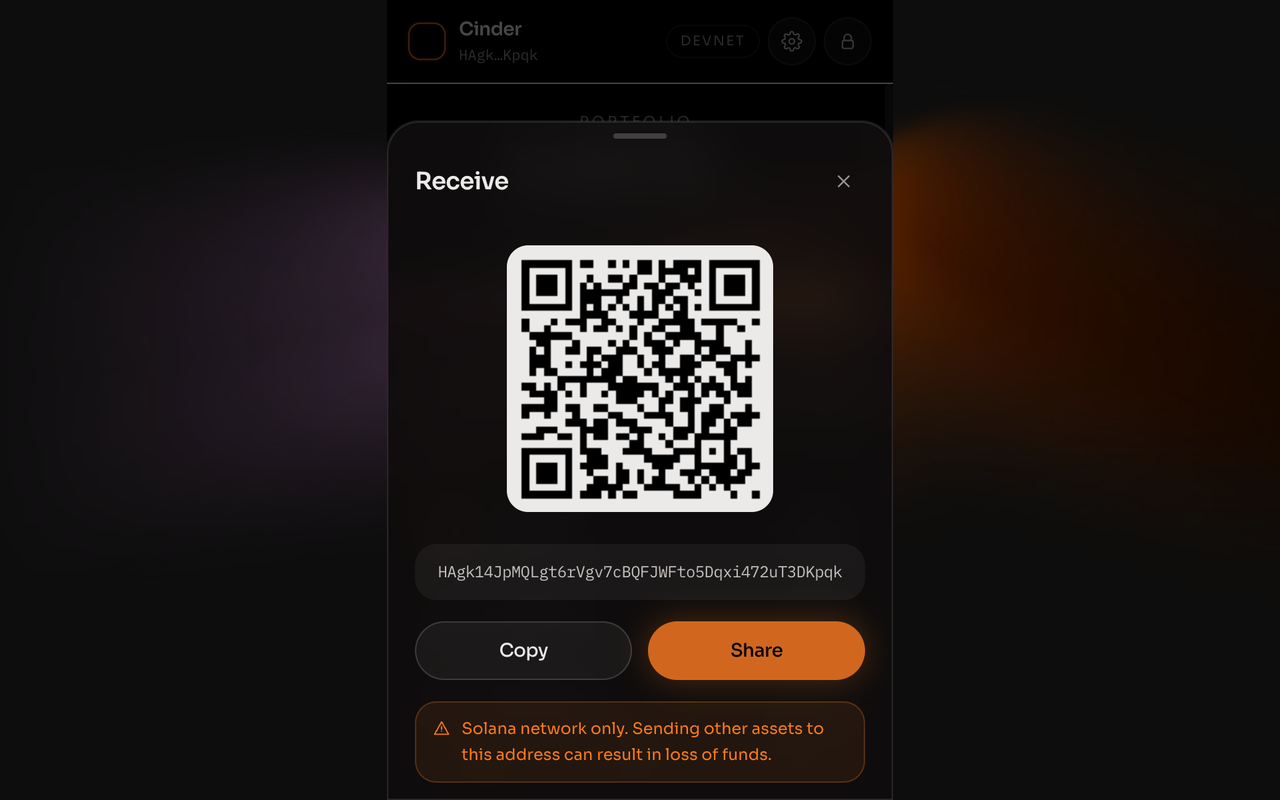
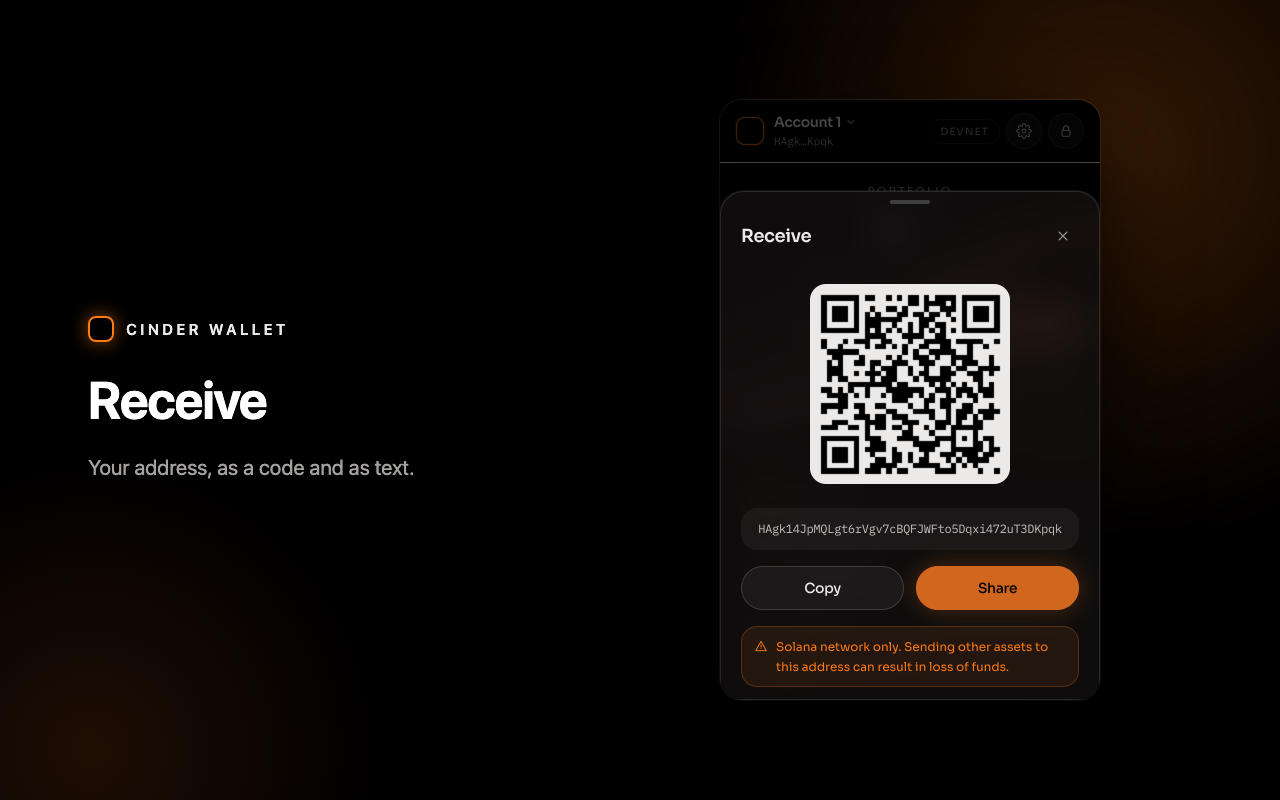
Retake the store screenshots from the real extension
The old set was the devnet unpacked build showing a Devnet pill and unnamed
tokens, which read as a different product from the Mainnet listing text.

Two scripts replace the by-hand process: capture-screenshots.mjs drives the
real extension and writes the raw popup captures, compose-store-images.mjs
lays them out at 1280x800. Nothing is staged and nothing is broadcast.

The five listing shots now lead with the simulated balance change and the
plain-language consent screen, the two things that distinguish this wallet.
Shots 1 and 4 are Mainnet, where the fixture holds real SOL and prices
resolve; 2, 3 and 5 are Devnet, because the fixture cannot pay a Mainnet fee.
listing.md explains that rather than leaving a reviewer to wonder.

diff --git a/docs/store/listing.md b/docs/store/listing.md
@@ -38,19 +38,24 @@ Requires Chrome 111 or later (the Wallet Standard provider is a MAIN-world conte
 
 ## Screenshots
 
-Upload from `docs/store/screenshots/` (real popup, 1280×800, full bleed). Store allows 5:
+Upload from `docs/store/screenshots/` (composed from real popup captures at 1280×800). The store allows five:
 
-1. `01-unlock-1280x800.png`
-2. `02-home-1280x800.png`
-3. `03-nfts-1280x800.png`
-4. `04-activity-1280x800.png`
-5. `05-approve-1280x800.png`
+1. `01-home-1280x800.png` — balance and prices, captured on Mainnet
+2. `02-approve-1280x800.png` — the simulated balance change before signing
+3. `03-connect-1280x800.png` — what a site can and cannot do, in plain language
+4. `04-send-1280x800.png` — a network-quoted fee and the full address
+5. `05-tokens-1280x800.png` — tokens named from chain metadata
 
 Also required: `promo-small-440x280.png`. Optional: `promo-marquee-1400x560.png`. Icon: `public/icons/icon-128.png`.
 
-Spares if you want to swap one in: `extra-receive-1280x800.png`, `extra-send-review-1280x800.png`. `raw/` is local working crops and is gitignored.
+Spare, not part of the five: `extra-activity`, `extra-receive`, `extra-settings`.
 
-**These shots are still the devnet unpacked build, not `just store`.** They show the Devnet pill and a devnet balance, which reads as a different product from the Mainnet listing text above. Retaking them is SHIP-0 item 8 and needs a mainnet profile with a Helius key in Settings, holding at least one named token and one NFT — an agent has no mainnet-funded account. Replace 01–05 and the promo tiles before submitting.
+**How they were made and why two clusters appear.** `node scripts/capture-screenshots.mjs` drives the real
+extension and writes `raw/`; `node scripts/compose-store-images.mjs` lays those out. Shots 1 and 4 are Mainnet,
+where the fixture holds real SOL and prices resolve. Shots 2, 3 and 5 are Devnet, because the fixture address
+cannot pay a Mainnet fee — it was assigned away from the system program by someone using the public test
+mnemonic (see `docs/test-wallet.md`), so a Mainnet simulation correctly fails. Both clusters are supported and
+the listing text says so; nothing here is staged or mocked.
 
 ## Privacy practices (dashboard)
 

diff --git a/README.md b/README.md
@@ -7,12 +7,12 @@ Self-custodial Solana wallet for Chrome (Manifest V3). The encrypted keyring liv
 This is a portfolio implementation. It does not impersonate Phantom. It has not been audited. Do not put mainnet funds on it that you cannot lose.
 
 <p align="center">
-  <img src="docs/store/screenshots/02-home-1280x800.png" width="72%" alt="Cinder Wallet home — portfolio and assets" />
+  <img src="docs/store/screenshots/01-home-1280x800.png" width="72%" alt="Cinder Wallet home — portfolio and assets" />
 </p>
 <p align="center">
-  <img src="docs/store/screenshots/01-unlock-1280x800.png" width="32%" alt="Unlock" />
-  <img src="docs/store/screenshots/03-nfts-1280x800.png" width="32%" alt="NFTs" />
-  <img src="docs/store/screenshots/04-activity-1280x800.png" width="32%" alt="Activity" />
+  <img src="docs/store/screenshots/02-approve-1280x800.png" width="32%" alt="Approval with a simulated balance change" />
+  <img src="docs/store/screenshots/03-connect-1280x800.png" width="32%" alt="Connect consent screen" />
+  <img src="docs/store/screenshots/04-send-1280x800.png" width="32%" alt="Send review with a network-quoted fee" />
 </p>
 
 ## What you get, with and without an RPC key

diff --git a/docs/test-wallet.md b/docs/test-wallet.md
@@ -39,3 +39,13 @@ funds skip with the balance and the shortfall, everything else runs. See `e2e/de
 ## Cost of a test run
 
 A full `just e2e` spends 10000 lamports from the fixture (two fee-only self-transfers on devnet: the dApp `signAndSend` approval and the popup send test). Funds never leave the fixture address; top it up at https://faucet.solana.com when it runs low.
+
+## Screenshots
+
+`node scripts/capture-screenshots.mjs` drives the real extension with this fixture and writes
+`docs/store/screenshots/raw/`; `node scripts/compose-store-images.mjs` lays those out into the
+listing images. Build the cluster you want first, e.g.
+`VITE_NETWORK=devnet CINDER_OUT_DIR=dist-shots pnpm build:extension`, then run with the same
+`CINDER_OUT_DIR`. The capture rejects the approval it opens, so nothing is ever broadcast. The
+approval shots must be captured on Devnet with a funded fixture: on Mainnet this address cannot
+pay a fee, so the simulation correctly fails and no balance change is shown.
